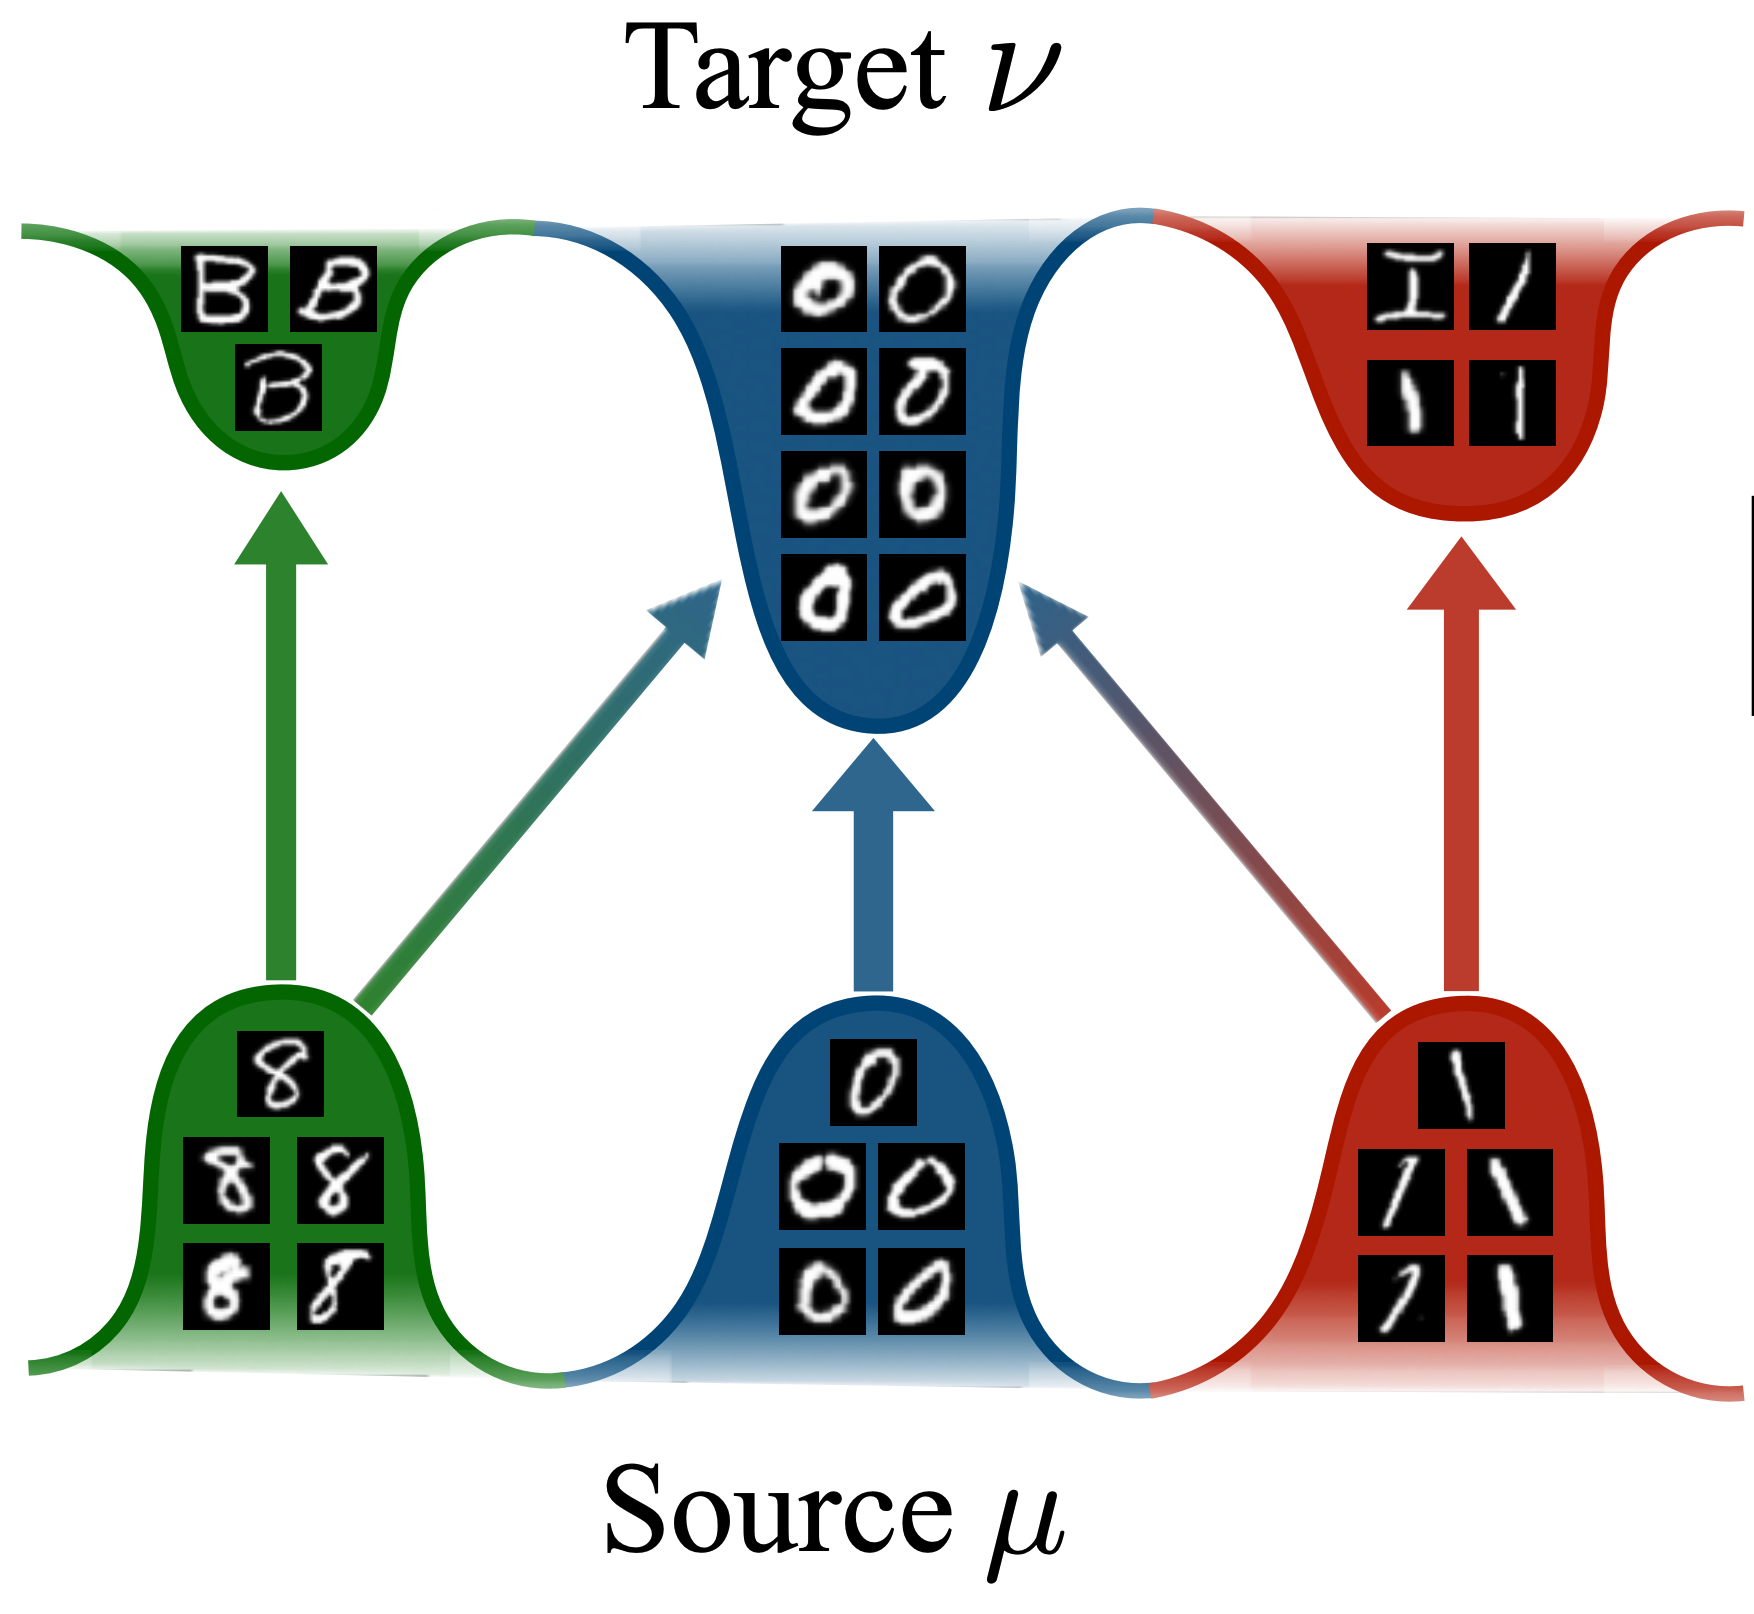
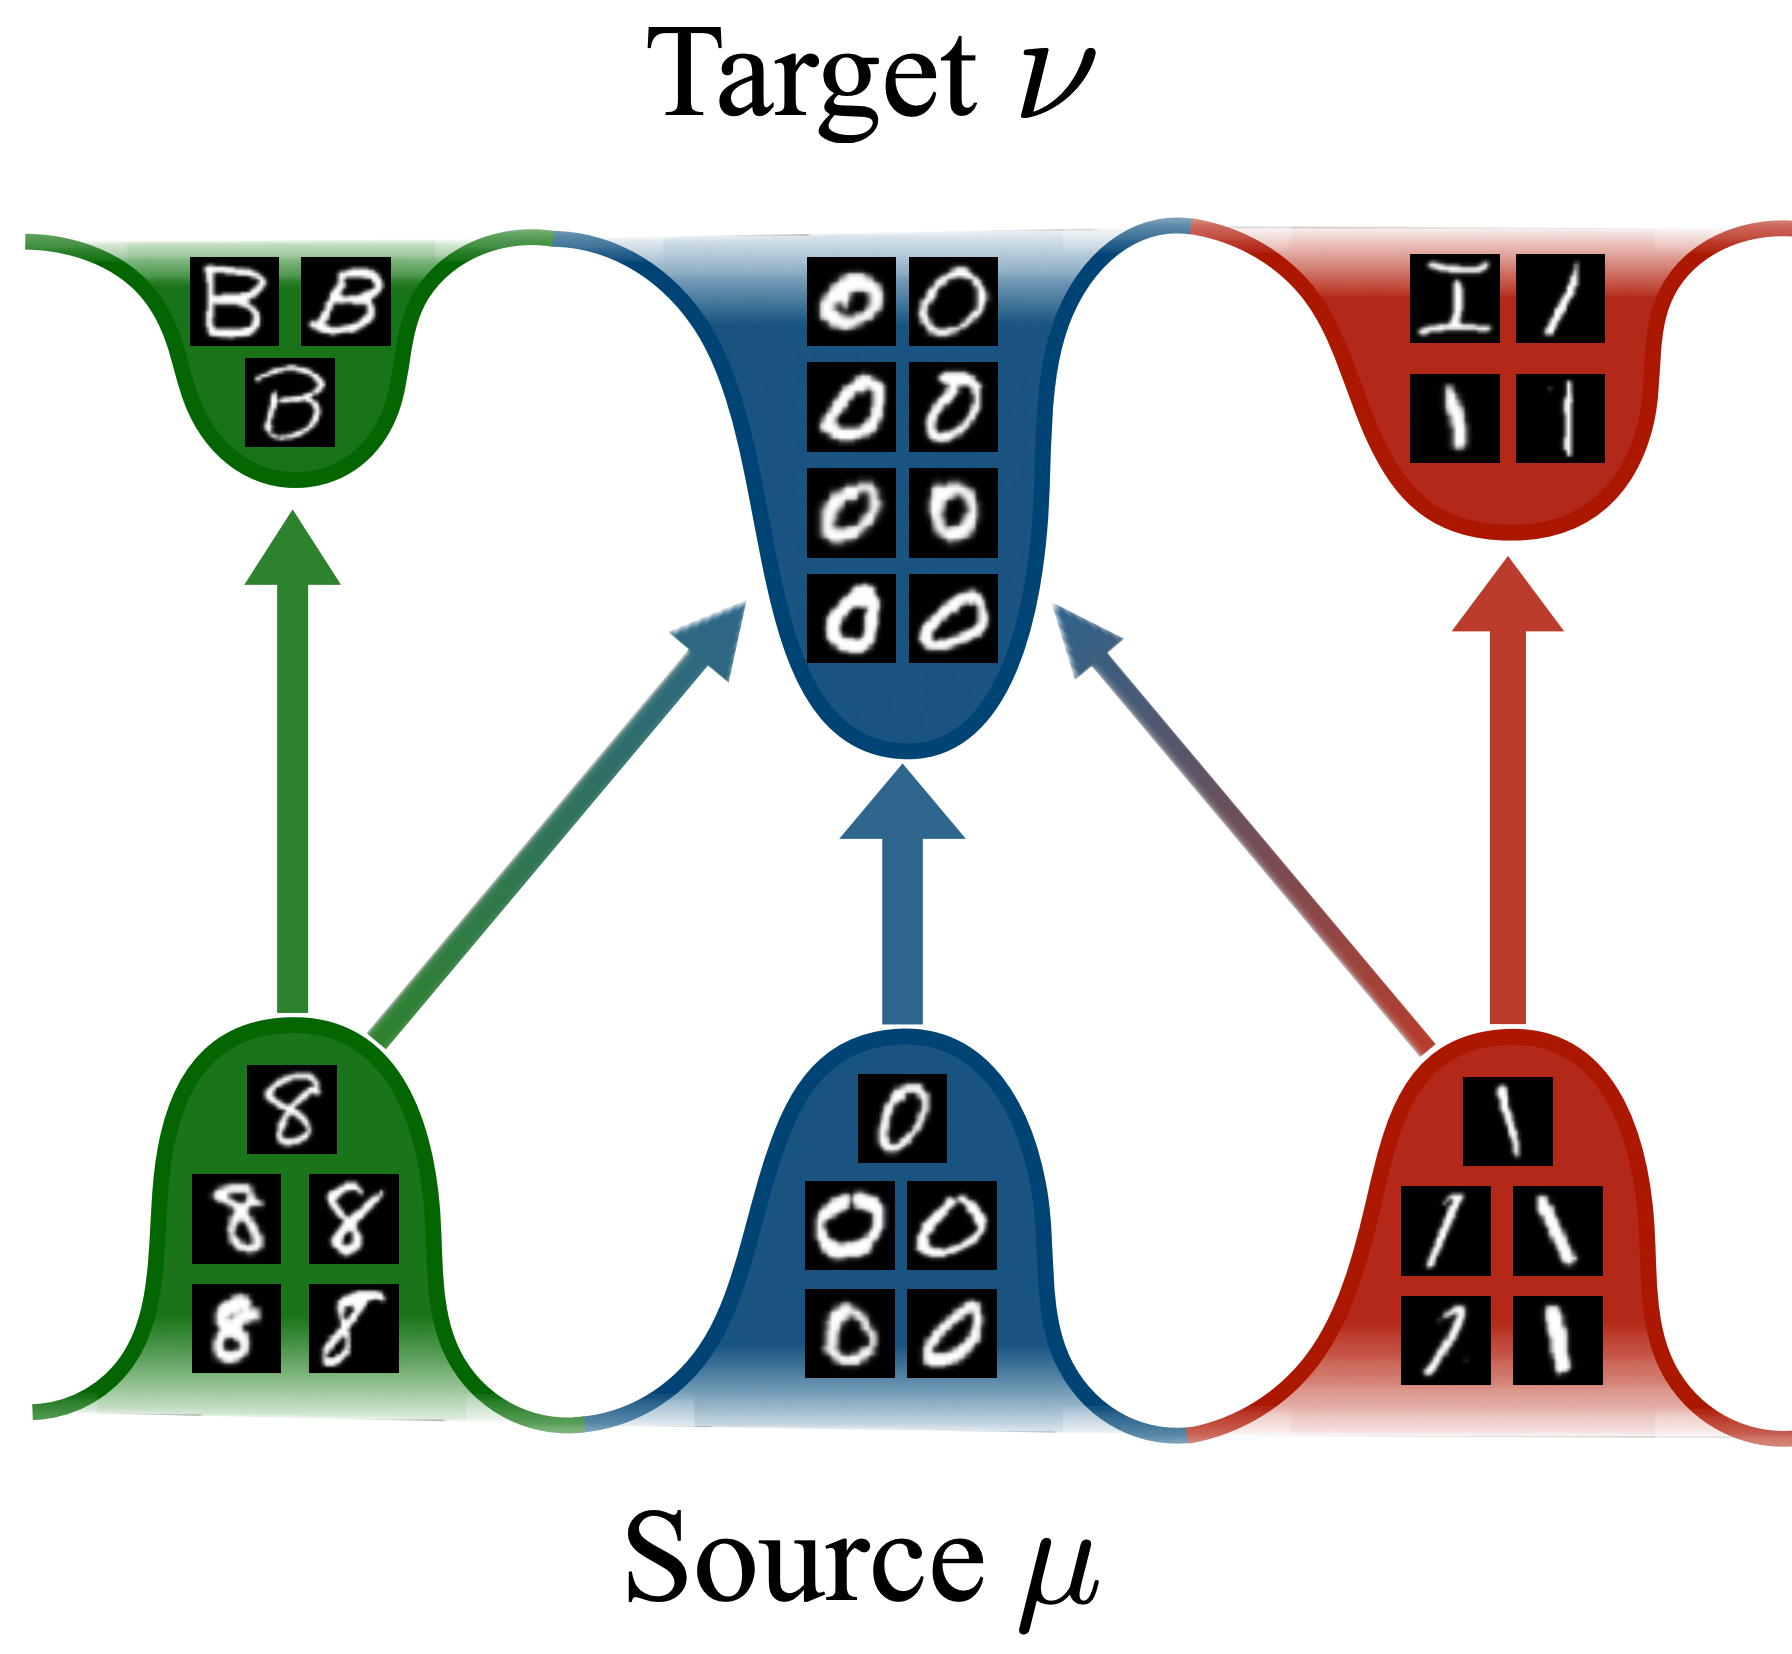
updated blog for unbalancedness paper

diff --git a/content/publications/Unbalancedness-in-Neural-Monge-Maps.md b/content/publications/Unbalancedness-in-Neural-Monge-Maps.md
@@ -32,8 +32,6 @@ Unpaired domain translation aims to transform data from a source to a target dis
 
 </br>
 
-</br>
-
 # Incorporating Unbalancedness:   
 
 </br>
@@ -42,7 +40,7 @@ Neural Monge maps have been successfully applied to a variety of domain translat
 
 </br>
 
-![text](/publications/ICLR24_Unbalancedness/motivation_2.png)
+![text](/publications/ICLR24_Unbalancedness/motivation_2.png){ width=50% }
 
 </br>
 
@@ -50,7 +48,7 @@ However, existing methods for estimating neural Monge maps with unbalancedness a
 
 </br>
 
-![text](/publications/ICLR24_Unbalancedness/teaser.png)
+![text](/publications/ICLR24_Unbalancedness/unbalancedness_teaser.png)
 
 </br>
 
@@ -72,6 +70,10 @@ We show that with our method we can mimic the behaviour of discrete UOT for any 
 </br>
 
 We demonstrate the importance of learning unbalanced Monge maps on three different domain translation tasks leveraging three different (balanced) Monge map estimators, which showcases the flexibility of our proposed method.
+
+</br>
+
+We demonstrate that unbalancedness enhances the performance in all three of these settings. In particular, it improves trajectory inference on time-resolved single-cell datasets trained with __OT-ICNN__ and the prediction of perturbations on the cellular level trained with __Monge Gap__. Moreover, we demonstrate that while OT-FM performs competitively in natural image translation, unbalancedness (UOT-FM) further elevates these results.
 
 </br>
 
